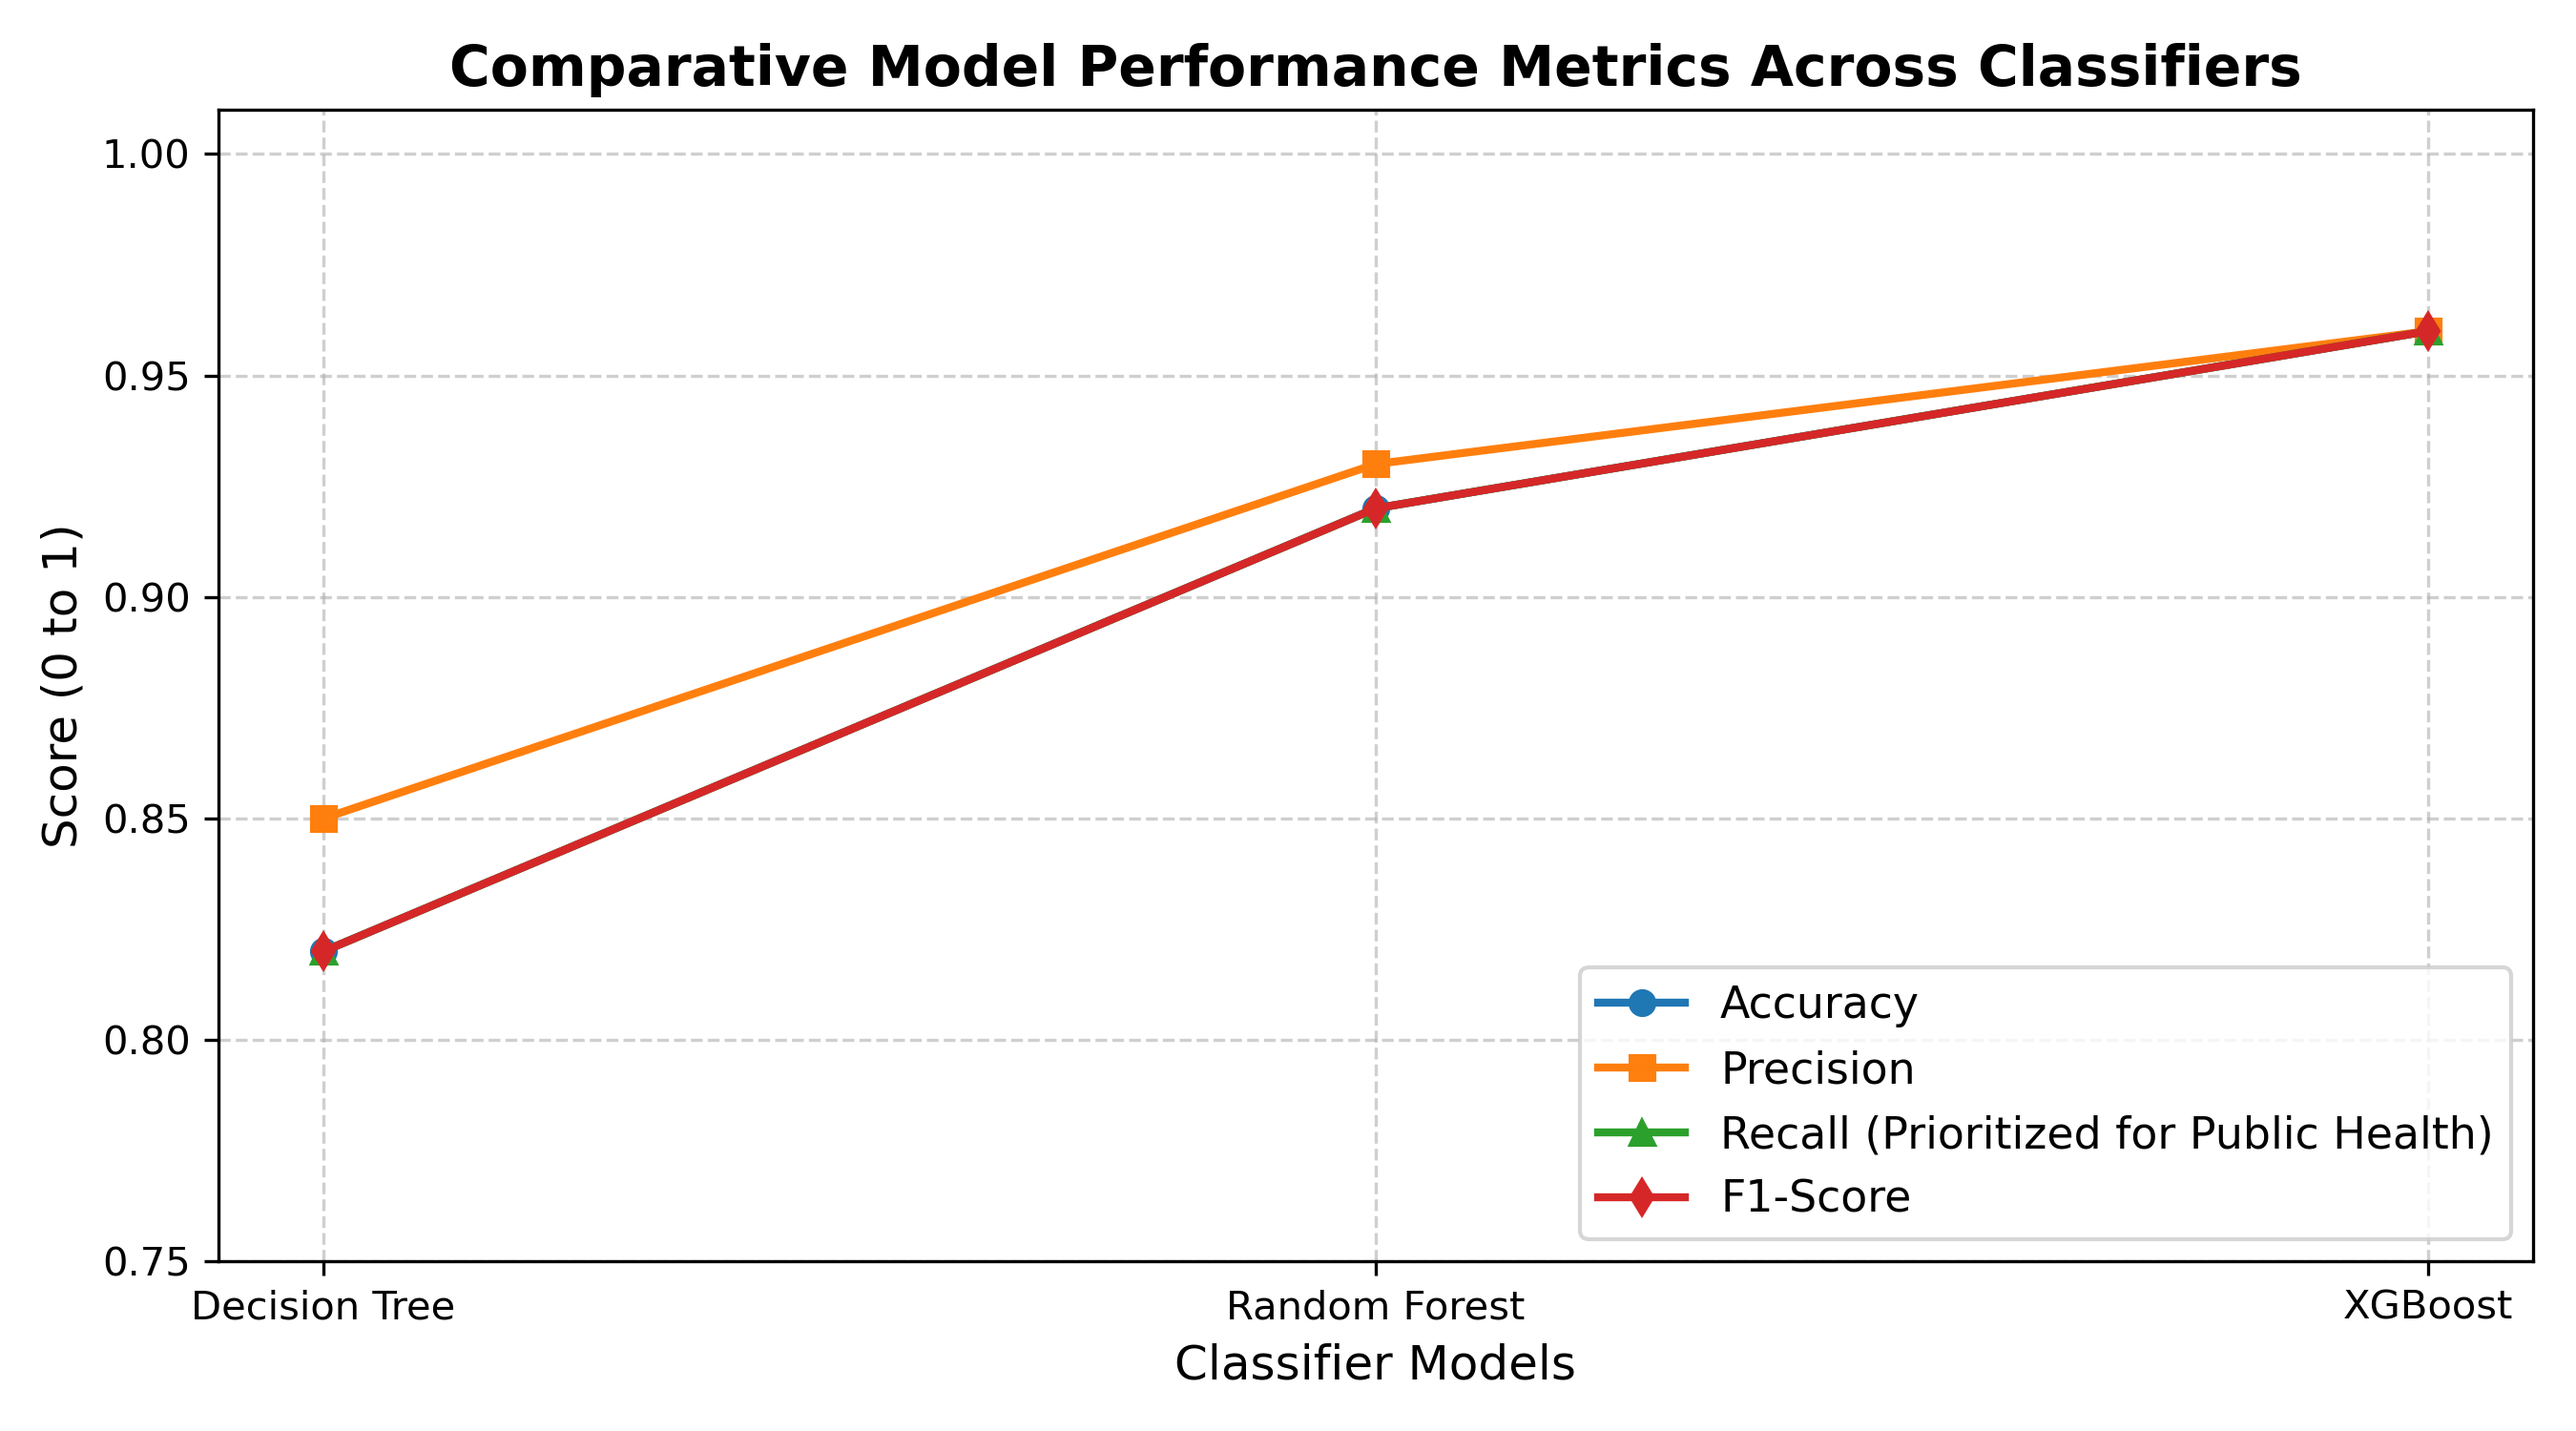
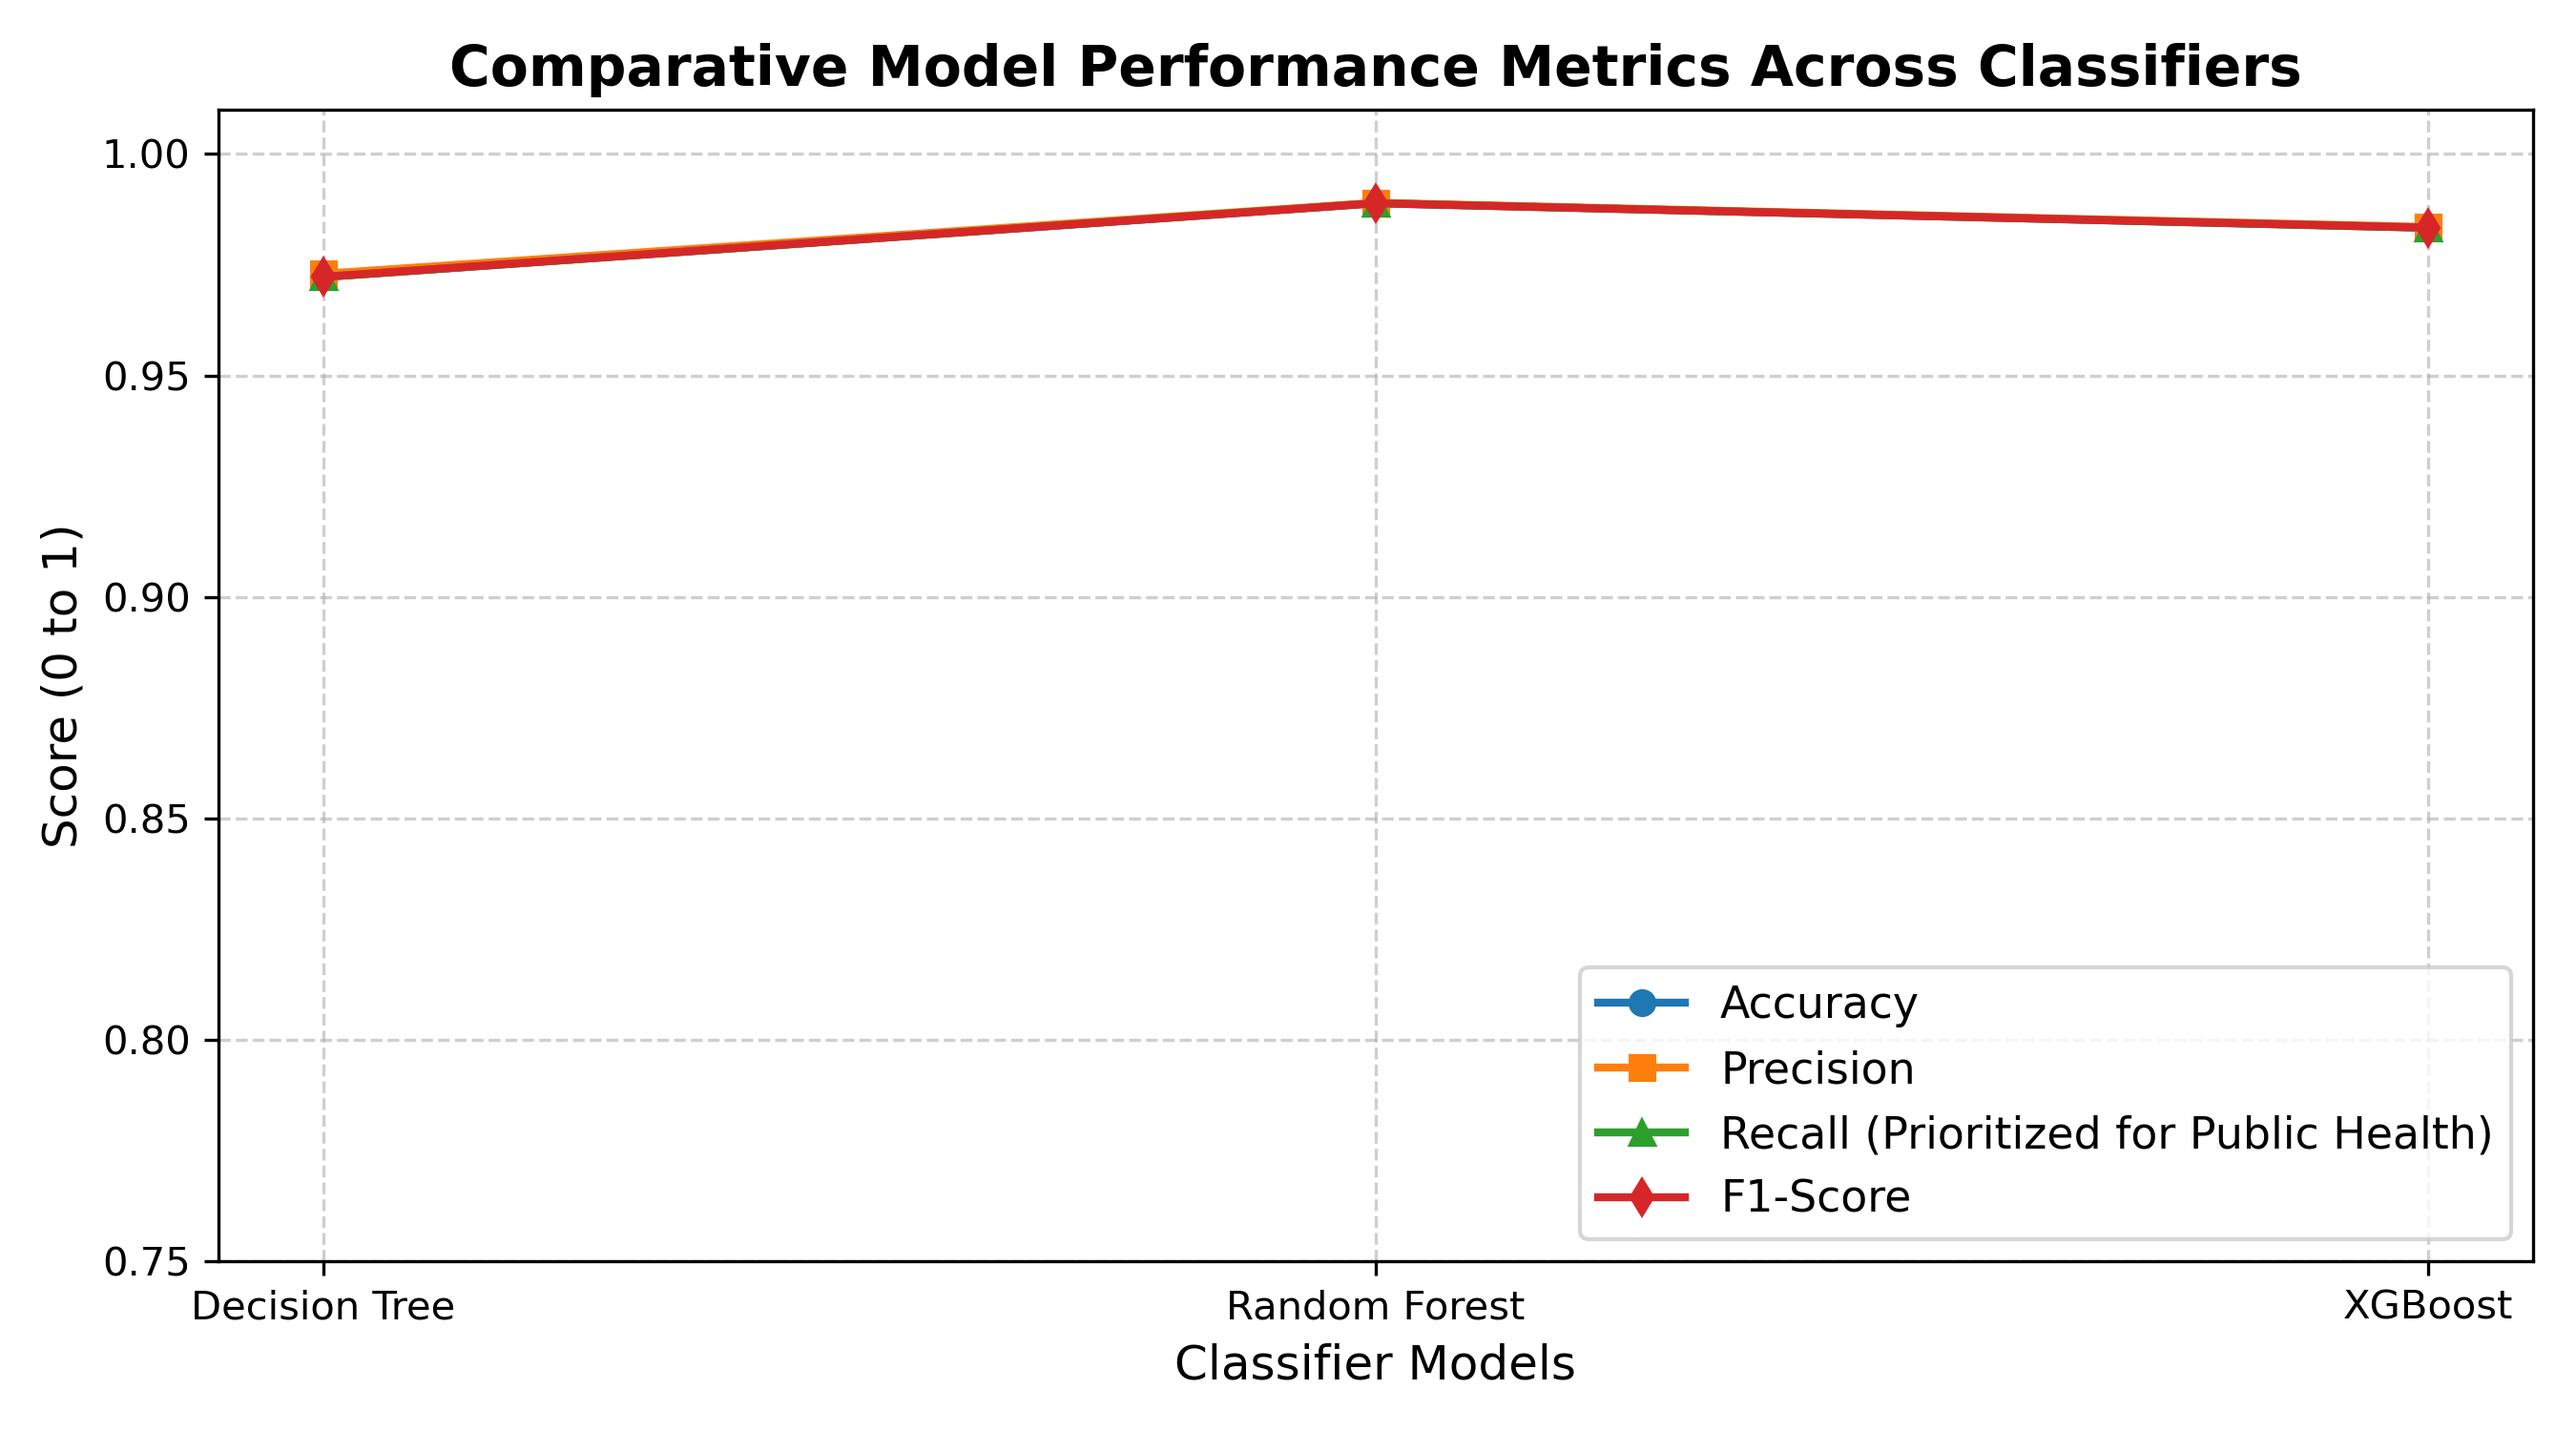
Update styling and final project files

diff --git a/app.py b/app.py
@@ -20,14 +20,14 @@ def render_top_nav():
     if "page_history" not in st.session_state:
         st.session_state.page_history = []
 
-    # Dropped down, thick full-width navy background bar covering title and buttons completely
+    # Styled nav container with larger button sizes and padding
     st.markdown("""
         <style>
         * {
             transition: none !important;
             animation: none !important;
+            font-family: Arial, sans-serif !important;
         }
-        /* Override Streamlit's default header clipping to drop our nav bar down */
         .block-container {
             padding-top: 1rem !important;
         }
@@ -35,43 +35,119 @@ def render_top_nav():
             visibility: hidden;
             height: 0px;
         }
-        .nav-container-box {
+        /* Streamlit's own thin accent bar (stDecoration) sits above the header,
+           independent of it — hide it or it keeps floating above the nav bar. */
+        div[data-testid="stDecoration"] {
+            display: none !important;
+            height: 0 !important;
+        }
+
+        /* Kill every source of a top gap and stop the vertical scrollbar from
+           throwing off the 100vw full-bleed math below (that's what was
+           leaving the sliver of space on the right edge). */
+        html, body {
+            margin: 0 !important;
+            padding: 0 !important;
+            overflow-x: hidden !important;
+        }
+        div[data-testid="stAppViewContainer"],
+        section.main,
+        div[data-testid="stMain"] {
+            padding-top: 0 !important;
+            margin-top: 0 !important;
+            overflow-x: hidden !important;
+        }
+        .block-container {
+            padding-top: 0 !important;
+        }
+
+        /* IMPORTANT: this targets a real Streamlit container (via st.container(key=...))
+           that the title and buttons are placed INSIDE of, not a raw <div> opened in one
+           st.markdown call and closed in another. Streamlit doesn't let a hand-written
+           <div> wrap around widgets rendered in later calls — each call becomes its own
+           sibling block — so painting the background here is the only way to get one
+           solid box that truly contains the title and every button. */
+        div.st-key-nav_container {
             background: linear-gradient(135deg, #0b1d28 0%, #15293a 100%) !important;
-            border-bottom: 6px solid #2b7a9f !important;
-            padding: 22px 30px !important;
-            margin: -6rem -6rem 30px -6rem !important;
+            border-bottom: none !important;
+            padding: 28px 30px 34px 30px !important;
+            margin: 0 0 20px 0 !important;
             box-shadow: 0 10px 30px rgba(0,0,0,0.9) !important;
-            width: calc(100% + 12rem) !important;
-            position: relative;
+            position: relative !important;
+            top: 0 !important;
+            left: 50% !important;
+            right: 50% !important;
+            margin-left: -50vw !important;
+            margin-right: -50vw !important;
+            width: 100vw !important;
             z-index: 99999;
+            box-sizing: border-box !important;
         }
         .top-nav-title {
             color: #ffffff !important;
+            font-family: Arial, sans-serif !important;
             font-size: 1.25rem !important;
             font-weight: 900 !important;
-            line-height: 2.6rem !important;
+            line-height: 2.8rem !important;
             letter-spacing: 0.5px !important;
             white-space: nowrap !important;
         }
-        div.stButton > button {
+
+        /* Navigation buttons: force solid navy fill on every Streamlit-generated
+           button element/state so nothing renders transparent or untinted */
+        div.st-key-nav_container div.stButton > button,
+        div.st-key-nav_container div[data-testid="stButton"] > button,
+        div.st-key-nav_container button[kind="secondary"],
+        div.st-key-nav_container button[kind="primary"] {
             white-space: nowrap !important;
-            font-size: 0.95rem !important;
+            font-family: Arial, sans-serif !important;
+            font-size: 1.05rem !important;
             font-weight: 700 !important;
-            padding: 0.45rem 0.6rem !important;
+            padding: 0.6rem 0.9rem !important;
             background-color: #1b364d !important;
+            background: #1b364d !important;
             color: #ffffff !important;
             border: 2px solid #2b7a9f !important;
-            border-radius: 6px !important;
+            border-radius: 8px !important;
+            min-height: 45px !important;
+            box-shadow: none !important;
         }
-        div.stButton > button:hover {
+        div.st-key-nav_container div.stButton > button:hover,
+        div.st-key-nav_container div[data-testid="stButton"] > button:hover,
+        div.st-key-nav_container button[kind="secondary"]:hover,
+        div.st-key-nav_container button[kind="primary"]:hover {
             background-color: #2b7a9f !important;
+            background: #2b7a9f !important;
             border-color: #ffffff !important;
+            color: #ffffff !important;
+        }
+        div.st-key-nav_container div.stButton > button:focus,
+        div.st-key-nav_container div.stButton > button:active,
+        div.st-key-nav_container div.stButton > button:focus:not(:active),
+        div.st-key-nav_container div[data-testid="stButton"] > button:focus,
+        div.st-key-nav_container div[data-testid="stButton"] > button:active {
+            background-color: #1b364d !important;
+            background: #1b364d !important;
+            color: #ffffff !important;
+            border: 2px solid #2b7a9f !important;
+            box-shadow: none !important;
+            outline: none !important;
+        }
+        /* Streamlit wraps the button label in a <p> / <div> — force it transparent
+           so the button's own navy background always shows through */
+        div.st-key-nav_container div.stButton > button p,
+        div.st-key-nav_container div.stButton > button div,
+        div.st-key-nav_container div.stButton > button span {
+            font-family: Arial, sans-serif !important;
+            color: #ffffff !important;
+            background: transparent !important;
         }
         </style>
-        <div class="nav-container-box">
     """, unsafe_allow_html=True)
 
-    with st.container():
+    # Everything below is rendered INSIDE this one real container, so the CSS
+    # background above genuinely wraps around the title and every button.
+    with st.container(key="nav_container"):
         nav_col1, nav_col2, nav_col3, nav_col4, nav_col5, nav_col6 = st.columns(
             [2.4, 0.8, 1.1, 1.1, 0.9, 1.2]
         )
@@ -92,8 +168,6 @@ def render_top_nav():
         with nav_col6:
             if st.button("How It Works", key="nav_how", use_container_width=True):
                 go_to("How It Works")
-
-    st.markdown('</div>', unsafe_allow_html=True)
 
 
 def main():
